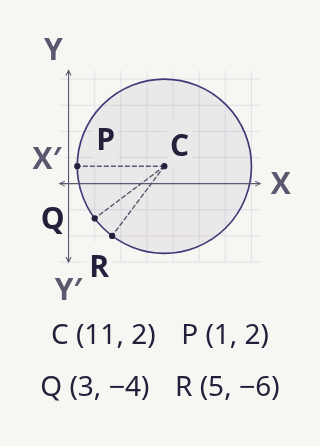
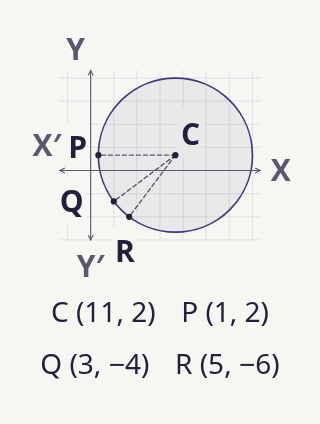
Give the three-radius labels room beside the axis

diff --git a/site/assets/g9-ch5-coordinate-figures.js b/site/assets/g9-ch5-coordinate-figures.js
@@ -50,7 +50,7 @@
     ],
     q11:{
       points:{C:[11,2],P:[1,2],Q:[3,-4],R:[5,-6]},circle:[[11,2],10],guides:['CP','CQ','CR'],
-      fullAxes:true,compactAxes:true,showOrigin:false,associateLabels:'PQ',
+      fullAxes:true,showOrigin:false,associateLabels:'PQ',
       directions:{P:labelDirections,Q:labelDirections,R:[.2,1]}
     }
   });
